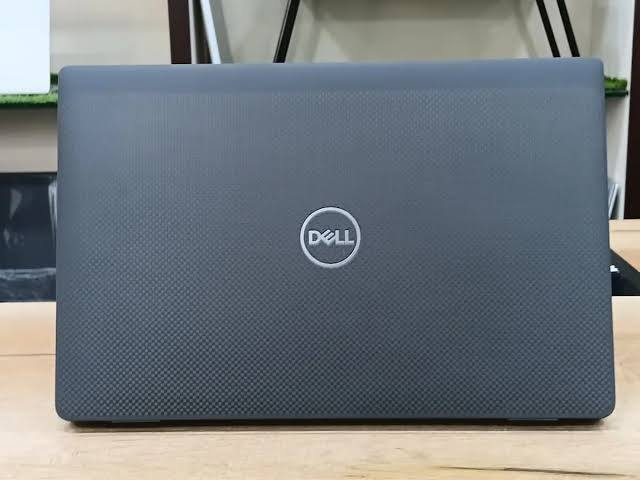
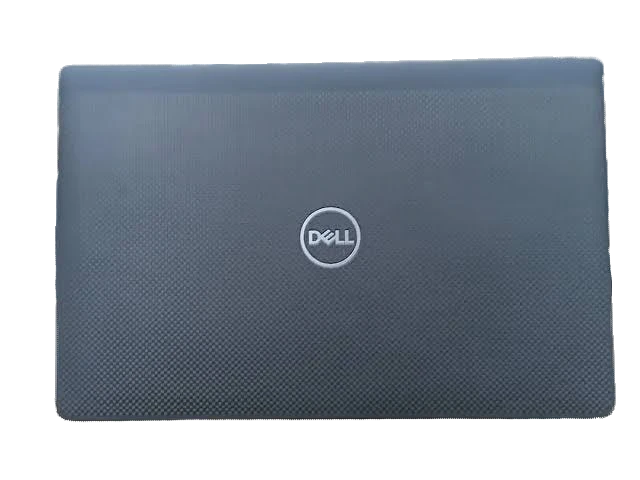
Updating hero + remove bg from images

diff --git a/assets/js/components/Hero.js b/assets/js/components/Hero.js
@@ -82,7 +82,7 @@
 
           <p class="hero-subtitle">
             Dell &middot; HP &middot; Lenovo — meticulously tested, business-grade
-            machines at fair prices. Karachi-based, nationwide delivery.
+            machines at fair prices. Lahore-based, nationwide delivery.
           </p>
 
           <div class="hero-ctas">
